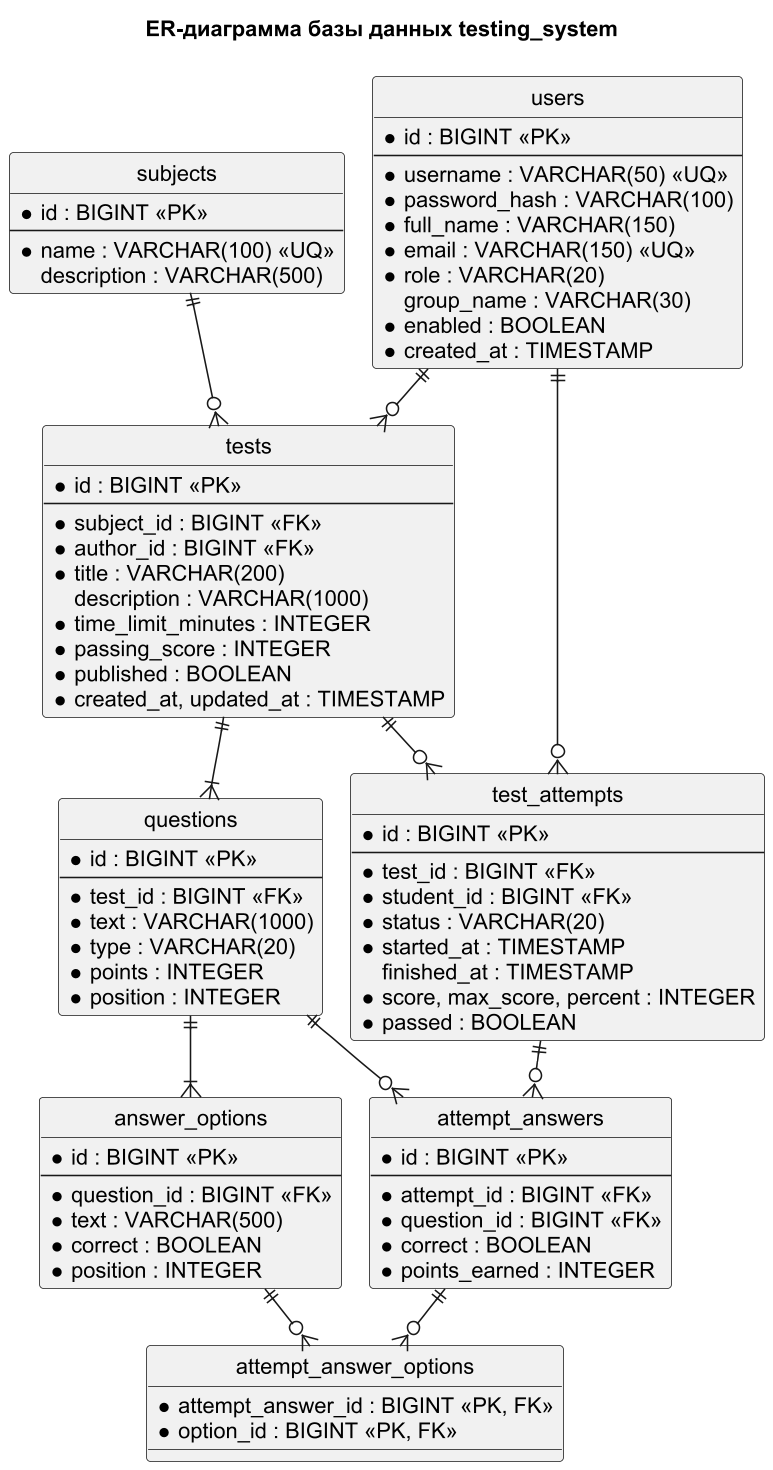
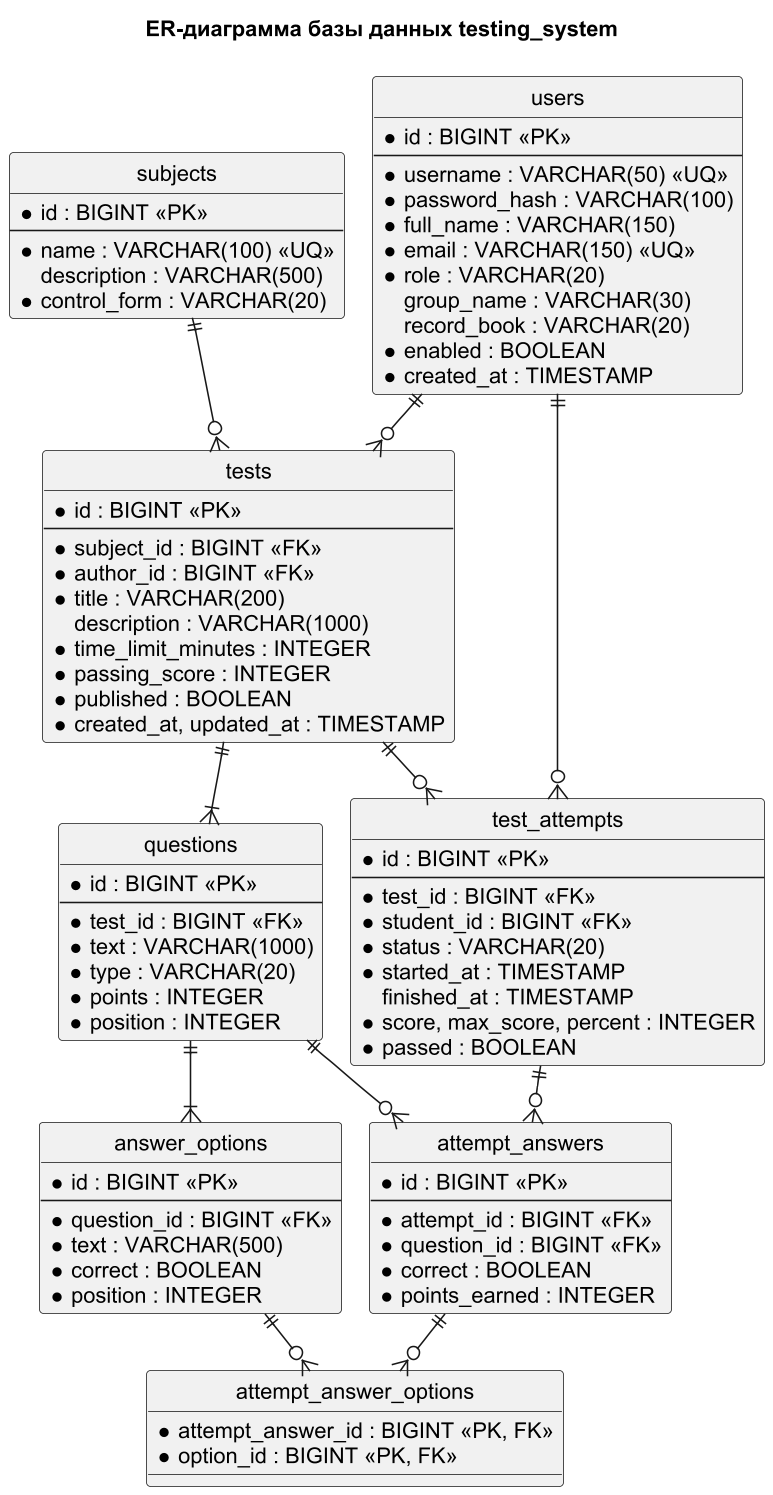
Форма контроля у дисциплины: экзамен, зачёт, дифф. зачёт
- поле control_form в subjects (миграция V3), выбор в форме и фильтр в справочнике
- ведомость берёт форму контроля из дисциплины; для зачёта — «зачтено / не зачтено» и итоги по зачёту
- обновлены ER-диаграмма и диаграмма классов, автотесты

diff --git a/src/main/resources/templates/reports/sheet.html b/src/main/resources/templates/reports/sheet.html
@@ -65,7 +65,7 @@
                             <div class="col-4"><label class="form-label small" for="grade3">«3»</label>
                                 <input class="form-control" type="number" min="0" max="100" th:field="*{grade3}"></div>
                         </div>
-                        <div class="form-text">Ниже порога «3» — оценка «2».</div>
+                        <div class="form-text">Ниже порога «3» — оценка «2». Для зачёта: «зачтено» — от порога «3».</div>
                     </div>
                 </div>
             </div>
@@ -85,6 +85,7 @@
                                 <input class="form-control" th:field="*{semester}" maxlength="20"></div>
                             <div class="col-md-3"><label class="form-label small" for="controlForm">Форма контроля</label>
                                 <select class="form-select" th:field="*{controlForm}">
+                                    <option value="">Из дисциплины</option>
                                     <option value="экзамен">Экзамен</option>
                                     <option value="зачёт">Зачёт</option>
                                     <option value="дифференцированный зачёт">Дифф. зачёт</option>
@@ -102,7 +103,7 @@
                             <div class="col-md-6"><label class="form-label small" for="teacher">Преподаватель</label>
                                 <input class="form-control" th:field="*{teacher}" maxlength="150"></div>
                         </div>
-                        <div class="form-text">Дисциплина и преподаватель подставляются из выбранного теста; их можно изменить.</div>
+                        <div class="form-text">Дисциплина, преподаватель и форма контроля подставляются из выбранного теста; их можно изменить.</div>
                     </div>
                 </div>
 

diff --git a/src/main/resources/templates/subjects/list.html b/src/main/resources/templates/subjects/list.html
@@ -10,15 +10,21 @@
     </div>
     <form class="d-flex gap-2 mb-3" method="get" th:action="@{/subjects}">
         <input class="form-control" name="q" th:value="${q}" placeholder="Поиск по названию">
+        <select class="form-select w-auto" name="controlForm" aria-label="Форма контроля">
+            <option value="">Все формы контроля</option>
+            <option th:each="f : ${controlForms}" th:value="${f}" th:text="${f.title}" th:selected="${f == controlForm}"></option>
+        </select>
         <button class="btn btn-outline-primary" type="submit">Найти</button>
     </form>
     <div class="table-responsive card">
         <table class="table table-hover mb-0 align-middle">
-            <thead><tr><th>ID</th><th>Название</th><th>Описание</th><th></th></tr></thead>
+            <thead><tr><th>ID</th><th>Название</th><th>Форма контроля</th><th>Описание</th><th></th></tr></thead>
             <tbody>
             <tr th:each="s : ${subjects}">
                 <td th:text="${s.id}">1</td>
                 <td class="fw-semibold" th:text="${s.name}">название</td>
+                <td><span class="badge" th:text="${s.controlForm.title}"
+                          th:classappend="${s.controlForm.name() == 'EXAM'} ? 'text-bg-primary' : (${s.controlForm.name() == 'CREDIT'} ? 'text-bg-success' : 'text-bg-info')">форма</span></td>
                 <td class="text-muted" th:text="${s.description}">описание</td>
                 <td class="text-nowrap">
                     <a class="btn btn-sm btn-outline-secondary" th:href="@{/subjects/{id}/edit(id=${s.id})}">Изменить</a>
@@ -27,7 +33,7 @@
                     </form>
                 </td>
             </tr>
-            <tr th:if="${#lists.isEmpty(subjects)}"><td colspan="4" class="text-muted">Ничего не найдено</td></tr>
+            <tr th:if="${#lists.isEmpty(subjects)}"><td colspan="5" class="text-muted">Ничего не найдено</td></tr>
             </tbody>
         </table>
     </div>

diff --git a/src/main/resources/templates/subjects/form.html b/src/main/resources/templates/subjects/form.html
@@ -16,6 +16,14 @@
             <div class="invalid-feedback" th:errors="*{name}"></div>
         </div>
         <div class="mb-3">
+            <label class="form-label" for="controlForm">Форма контроля</label>
+            <select class="form-select" th:field="*{controlForm}" th:errorclass="is-invalid">
+                <option th:each="f : ${controlForms}" th:value="${f}" th:text="${f.title}"></option>
+            </select>
+            <div class="form-text">По форме контроля ведомость выбирает шкалу: «5/4/3/2» или «зачтено / не зачтено».</div>
+            <div class="invalid-feedback" th:errors="*{controlForm}"></div>
+        </div>
+        <div class="mb-3">
             <label class="form-label" for="description">Описание</label>
             <textarea class="form-control" rows="3" th:field="*{description}" th:errorclass="is-invalid" maxlength="500"></textarea>
             <div class="invalid-feedback" th:errors="*{description}"></div>

diff --git a/src/main/resources/templates/tests/list.html b/src/main/resources/templates/tests/list.html
@@ -45,7 +45,8 @@
             <div class="card h-100 test-card">
                 <div class="card-body d-flex flex-column">
                     <div class="d-flex justify-content-between mb-2">
-                        <span class="badge text-bg-light" th:text="${t.subject.name}">дисциплина</span>
+                        <span><span class="badge text-bg-light" th:text="${t.subject.name}">дисциплина</span>
+                            <span class="badge text-bg-secondary" th:text="${t.subject.controlForm.title}">форма</span></span>
                         <span class="badge" th:classappend="${t.published} ? 'text-bg-success' : 'text-bg-secondary'"
                               th:text="${t.published} ? 'Опубликован' : 'Черновик'" th:if="${me.staff}">статус</span>
                     </div>

diff --git a/src/main/resources/templates/tests/view.html b/src/main/resources/templates/tests/view.html
@@ -10,6 +10,7 @@
             <div class="d-flex flex-wrap justify-content-between gap-2">
                 <div>
                     <span class="badge text-bg-light mb-2" th:text="${test.subject.name}">дисциплина</span>
+                    <span class="badge text-bg-secondary mb-2" th:text="${test.subject.controlForm.title}">форма</span>
                     <span class="badge mb-2" th:if="${me.staff}"
                           th:classappend="${test.published} ? 'text-bg-success' : 'text-bg-secondary'"
                           th:text="${test.published} ? 'Опубликован' : 'Черновик'">статус</span>

diff --git a/src/main/resources/static/js/app.js b/src/main/resources/static/js/app.js
@@ -44,7 +44,7 @@ document.addEventListener('submit', function (e) {
     if (!form) return;
     var test = form.querySelector('select[name="testId"]');
     if (test) test.addEventListener('change', function () {
-        ['discipline', 'teacher'].forEach(function (n) {
+        ['discipline', 'teacher', 'controlForm'].forEach(function (n) {
             var el = form.querySelector('[name="' + n + '"]');
             if (el) el.value = '';
         });

diff --git a/src/main/java/ru/edu/testing/service/GradeSheetService.java b/src/main/java/ru/edu/testing/service/GradeSheetService.java
@@ -6,6 +6,7 @@ import org.apache.poi.xssf.usermodel.XSSFWorkbook;
 import org.springframework.data.domain.Sort;
 import org.springframework.stereotype.Service;
 import org.springframework.transaction.annotation.Transactional;
+import ru.edu.testing.domain.ControlForm;
 import ru.edu.testing.domain.Role;
 import ru.edu.testing.domain.Test;
 import ru.edu.testing.domain.TestAttempt;
@@ -39,6 +40,8 @@ public class GradeSheetService {
 
     private static final DateTimeFormatter DATE = DateTimeFormatter.ofPattern("dd.MM.yyyy");
     private static final List<String> TOTAL_KEYS = List.of("5", "4", "3", "2", "н/я");
+    private static final List<String> PASS_FAIL_KEYS = List.of("зачтено", "не зачтено", "н/я");
+    private static final String PASS_FAIL = ControlForm.CREDIT.getTitle();
 
     private final TestRepository testRepository;
     private final TestAttemptRepository attemptRepository;
@@ -75,6 +78,9 @@ public class GradeSheetService {
                 if (isBlank(form.getTeacher())) {
                     form.setTeacher(t.getAuthor().getFullName());
                 }
+                if (isBlank(form.getControlForm())) {
+                    form.setControlForm(t.getSubject().getControlForm().getTitle());
+                }
             });
         }
     }
@@ -109,13 +115,28 @@ public class GradeSheetService {
         }
         byStudent.values().forEach(a -> students.putIfAbsent(a.getStudent().getId(), a.getStudent()));
 
+        // Зачёт оценивается как «зачтено / не зачтено» (порог — нижняя граница «3»), остальные формы — по пятибалльной шкале
+        boolean passFail = PASS_FAIL.equalsIgnoreCase(form.getControlForm() == null ? "" : form.getControlForm().trim());
         List<Row> rows = new ArrayList<>();
         for (User u : students.values()) {
             TestAttempt a = byStudent.get(u.getId());
             Integer grade = a == null ? null : grade(a.getPercent(), form);
+            String mark;
+            String word;
+            if (a == null) {
+                mark = "н/я";
+                word = gradeWord(null);
+            } else if (passFail) {
+                boolean ok = a.getPercent() >= form.getGrade3();
+                mark = ok ? "зач." : "незач.";
+                word = ok ? "зачтено" : "не зачтено";
+            } else {
+                mark = String.valueOf(grade);
+                word = gradeWord(grade);
+            }
             rows.add(new Row(0, u.getFullName(), u.getGroupName(), u.getRecordBook(),
                     a == null ? null : a.getScore(), a == null ? null : a.getMaxScore(),
-                    a == null ? null : a.getPercent(), grade, gradeWord(grade), a == null ? null : a.getFinishedAt()));
+                    a == null ? null : a.getPercent(), grade, mark, word, a == null ? null : a.getFinishedAt()));
         }
         Comparator<Row> byName = Comparator.comparing(Row::fullName, String.CASE_INSENSITIVE_ORDER);
         rows.sort(switch (form.getSort()) {
@@ -127,16 +148,17 @@ public class GradeSheetService {
         for (int i = 0; i < rows.size(); i++) {
             Row r = rows.get(i);
             numbered.add(new Row(i + 1, r.fullName(), r.group(), r.recordBook(), r.score(), r.maxScore(), r.percent(),
-                    r.grade(), r.gradeWord(), r.finishedAt()));
+                    r.grade(), r.mark(), r.gradeWord(), r.finishedAt()));
         }
 
         Map<String, Long> totals = new LinkedHashMap<>();
-        TOTAL_KEYS.forEach(k -> totals.put(k, 0L));
-        numbered.forEach(r -> totals.merge(r.absent() ? "н/я" : String.valueOf(r.grade()), 1L, Long::sum));
+        (passFail ? PASS_FAIL_KEYS : TOTAL_KEYS).forEach(k -> totals.put(k, 0L));
+        numbered.forEach(r -> totals.merge(r.absent() ? "н/я" : passFail ? r.gradeWord() : String.valueOf(r.grade()),
+                1L, Long::sum));
 
         List<SheetColumn> columns = form.getColumns() == null || form.getColumns().isEmpty()
                 ? List.of(SheetColumn.NUM, SheetColumn.NAME) : form.getColumns();
-        return new GradeSheet(form, test.getTitle(), columns, numbered, totals);
+        return new GradeSheet(form, test.getTitle(), passFail, columns, numbered, totals);
     }
 
     /** Перевод процента в пятибалльную шкалу по заданным порогам. */
@@ -171,7 +193,7 @@ public class GradeSheetService {
             case BOOK -> nz(r.recordBook());
             case SCORE -> r.absent() ? "" : r.score() + " / " + r.maxScore();
             case PERCENT -> r.absent() ? "" : String.valueOf(r.percent());
-            case GRADE -> r.absent() ? "н/я" : String.valueOf(r.grade());
+            case GRADE -> r.mark();
             case GRADE_WORD -> r.gradeWord();
             case DATE -> r.finishedAt() == null ? "" : r.finishedAt().toLocalDate().format(DATE);
             case SIGN -> "";
@@ -197,6 +219,10 @@ public class GradeSheetService {
     }
 
     public static String totalsLine(GradeSheet s) {
+        if (s.passFail()) {
+            return "Итого: зачтено = " + s.count("зачтено") + ", не зачтено = " + s.count("не зачтено")
+                    + ", не явились = " + s.count("н/я") + ", всего = " + s.rows().size();
+        }
         return "Итого: 5 (отл.) = " + s.count("5") + ", 4 (хор.) = " + s.count("4") + ", 3 (удовл.) = " + s.count("3")
                 + ", 2 (неуд.) = " + s.count("2") + ", не явились = " + s.count("н/я") + ", всего = " + s.rows().size();
     }
@@ -277,7 +303,7 @@ public class GradeSheetService {
                     SheetColumn col = sheet.columns().get(c);
                     String v = cell(row, col);
                     boolean numeric = (col == SheetColumn.NUM || col == SheetColumn.PERCENT
-                            || (col == SheetColumn.GRADE && !row.absent())) && !v.isEmpty();
+                            || (col == SheetColumn.GRADE && v.matches("\\d+"))) && !v.isEmpty();
                     if (numeric) {
                         xr.setNumber(c, Double.parseDouble(v), center);
                     } else {

diff --git a/src/test/java/ru/edu/testing/SystemScenariosTest.java b/src/test/java/ru/edu/testing/SystemScenariosTest.java
@@ -139,9 +139,10 @@ class SystemScenariosTest {
     @DisplayName("9. Добавление дисциплины преподавателем — запись добавлена")
     void addSubject() throws Exception {
         String name = "Дисциплина " + SEQ.incrementAndGet();
-        api(post("/api/subjects"), teacher, Map.of("name", name, "description", "Описание"))
+        api(post("/api/subjects"), teacher, Map.of("name", name, "description", "Описание", "controlForm", "CREDIT"))
                 .andExpect(status().isCreated())
-                .andExpect(jsonPath("$.name").value(name));
+                .andExpect(jsonPath("$.name").value(name))
+                .andExpect(jsonPath("$.controlForm").value("CREDIT"));
     }
 
     @Test
@@ -294,7 +295,7 @@ class SystemScenariosTest {
     }
 
     @Test
-    @DisplayName("22. Ведомость: CSV и Excel по группе, оценки по шкале, отметка «н/я»; преподавателю — 403")
+    @DisplayName("22. Ведомость: CSV и Excel по группе, оценки по шкале, зачёт, отметка «н/я»; преподавателю — 403")
     void gradeSheetExport() throws Exception {
         String group = "ВД-" + SEQ.incrementAndGet();
         String passed = "sheetA" + SEQ.incrementAndGet();
@@ -319,6 +320,16 @@ class SystemScenariosTest {
         org.junit.jupiter.api.Assertions.assertTrue(csv.contains("Студент " + passed + ";Z-" + passed + ";5;отлично"), csv);
         org.junit.jupiter.api.Assertions.assertTrue(csv.contains("Студент " + absent + ";Z-" + absent + ";н/я;не явился"), csv);
         org.junit.jupiter.api.Assertions.assertTrue(csv.contains("5 (отл.) = 1") && csv.contains("не явились = 1"), csv);
+        org.junit.jupiter.api.Assertions.assertTrue(csv.contains("Форма контроля: экзамен"), "форма контроля из дисциплины: " + csv);
+
+        // Зачёт: вместо оценки — «зачтено / не зачтено»
+        String credit = mvc.perform(get("/reports/sheet/export.csv").with(user(ADMIN).roles("ADMIN"))
+                        .param("testId", String.valueOf(testId)).param("group", group).param("controlForm", "зачёт")
+                        .param("columns", "NAME", "GRADE", "GRADE_WORD"))
+                .andExpect(status().isOk())
+                .andReturn().getResponse().getContentAsString(java.nio.charset.StandardCharsets.UTF_8);
+        org.junit.jupiter.api.Assertions.assertTrue(credit.contains("Студент " + passed + ";зач.;зачтено"), credit);
+        org.junit.jupiter.api.Assertions.assertTrue(credit.contains("зачтено = 1, не зачтено = 0, не явились = 1"), credit);
 
         byte[] xlsx = mvc.perform(get("/reports/sheet/export.xlsx").with(user(ADMIN).roles("ADMIN"))
                         .param("testId", String.valueOf(testId)).param("group", group))

diff --git a/src/main/java/ru/edu/testing/web/SubjectController.java b/src/main/java/ru/edu/testing/web/SubjectController.java
@@ -6,6 +6,7 @@ import org.springframework.ui.Model;
 import org.springframework.validation.BindingResult;
 import org.springframework.web.bind.annotation.*;
 import org.springframework.web.servlet.mvc.support.RedirectAttributes;
+import ru.edu.testing.domain.ControlForm;
 import ru.edu.testing.domain.Subject;
 import ru.edu.testing.dto.SubjectForm;
 import ru.edu.testing.exception.BusinessException;
@@ -23,9 +24,12 @@ public class SubjectController {
     }
 
     @GetMapping
-    public String list(@RequestParam(required = false) String q, Model model) {
-        model.addAttribute("subjects", subjectService.findAll(q));
+    public String list(@RequestParam(required = false) String q,
+                       @RequestParam(required = false) ControlForm controlForm, Model model) {
+        model.addAttribute("subjects", subjectService.findAll(q, controlForm));
         model.addAttribute("q", q);
+        model.addAttribute("controlForm", controlForm);
+        model.addAttribute("controlForms", ControlForm.values());
         return "subjects/list";
     }
 
@@ -33,6 +37,7 @@ public class SubjectController {
     public String createForm(Model model) {
         model.addAttribute("form", new SubjectForm());
         model.addAttribute("subjectId", null);
+        model.addAttribute("controlForms", ControlForm.values());
         return "subjects/form";
     }
 
@@ -40,6 +45,7 @@ public class SubjectController {
     public String create(@Valid @ModelAttribute("form") SubjectForm form, BindingResult result, Model model,
                          RedirectAttributes redirect) {
         model.addAttribute("subjectId", null);
+        model.addAttribute("controlForms", ControlForm.values());
         if (result.hasErrors()) {
             return "subjects/form";
         }
@@ -59,8 +65,10 @@ public class SubjectController {
         SubjectForm form = new SubjectForm();
         form.setName(subject.getName());
         form.setDescription(subject.getDescription());
+        form.setControlForm(subject.getControlForm());
         model.addAttribute("form", form);
         model.addAttribute("subjectId", id);
+        model.addAttribute("controlForms", ControlForm.values());
         return "subjects/form";
     }
 
@@ -68,6 +76,7 @@ public class SubjectController {
     public String update(@PathVariable Long id, @Valid @ModelAttribute("form") SubjectForm form,
                          BindingResult result, Model model, RedirectAttributes redirect) {
         model.addAttribute("subjectId", id);
+        model.addAttribute("controlForms", ControlForm.values());
         if (result.hasErrors()) {
             return "subjects/form";
         }

diff --git a/src/main/java/ru/edu/testing/config/DataInitializer.java b/src/main/java/ru/edu/testing/config/DataInitializer.java
@@ -82,10 +82,10 @@ public class DataInitializer implements ApplicationRunner {
                 userService.create(form("volkov", password, "Волков Никита Андреевич", "volkov@example.com", "ПИ-22"), Role.STUDENT));
         AppUserDetails author = new AppUserDetails(teacher, false);
 
-        Subject db = subject("Базы данных", "Реляционная модель, SQL, проектирование БД");
-        Subject java = subject("Программирование на Java", "Синтаксис, ООП, коллекции, исключения");
-        Subject net = subject("Компьютерные сети", "Модель OSI, стек TCP/IP, адресация");
-        Subject sec = subject("Информационная безопасность", "Угрозы, криптография, защита веб-приложений");
+        Subject db = subject("Базы данных", "Реляционная модель, SQL, проектирование БД", ControlForm.EXAM);
+        Subject java = subject("Программирование на Java", "Синтаксис, ООП, коллекции, исключения", ControlForm.EXAM);
+        Subject net = subject("Компьютерные сети", "Модель OSI, стек TCP/IP, адресация", ControlForm.CREDIT);
+        Subject sec = subject("Информационная безопасность", "Угрозы, криптография, защита веб-приложений", ControlForm.GRADED_CREDIT);
 
         List<Test> published = new ArrayList<>();
         published.add(test(author, db, "SQL: основы запросов", "Проверка знания базовых конструкций SQL", 15, 60,
@@ -154,10 +154,11 @@ public class DataInitializer implements ApplicationRunner {
         }
     }
 
-    private Subject subject(String name, String description) {
+    private Subject subject(String name, String description, ControlForm controlForm) {
         SubjectForm form = new SubjectForm();
         form.setName(name);
         form.setDescription(description);
+        form.setControlForm(controlForm);
         return subjectService.create(form);
     }
 

diff --git a/src/main/java/ru/edu/testing/service/SubjectService.java b/src/main/java/ru/edu/testing/service/SubjectService.java
@@ -3,6 +3,7 @@ package ru.edu.testing.service;
 import org.springframework.http.HttpStatus;
 import org.springframework.stereotype.Service;
 import org.springframework.transaction.annotation.Transactional;
+import ru.edu.testing.domain.ControlForm;
 import ru.edu.testing.domain.Subject;
 import ru.edu.testing.dto.SubjectForm;
 import ru.edu.testing.exception.BusinessException;
@@ -25,10 +26,15 @@ public class SubjectService {
     }
 
     public List<Subject> findAll(String query) {
-        if (query == null || query.isBlank()) {
-            return subjectRepository.findAllByOrderByNameAsc();
-        }
-        return subjectRepository.findByNameContainingIgnoreCaseOrderByNameAsc(query.trim());
+        return findAll(query, null);
+    }
+
+    /** Поиск по названию и фильтр по форме контроля. */
+    public List<Subject> findAll(String query, ControlForm controlForm) {
+        List<Subject> list = query == null || query.isBlank()
+                ? subjectRepository.findAllByOrderByNameAsc()
+                : subjectRepository.findByNameContainingIgnoreCaseOrderByNameAsc(query.trim());
+        return controlForm == null ? list : list.stream().filter(s -> s.getControlForm() == controlForm).toList();
     }
 
     public Subject get(Long id) {
@@ -69,5 +75,6 @@ public class SubjectService {
     private static void apply(Subject subject, SubjectForm form) {
         subject.setName(form.getName().trim());
         subject.setDescription(form.getDescription() == null ? null : form.getDescription().trim());
+        subject.setControlForm(form.getControlForm());
     }
 }

diff --git a/src/main/java/ru/edu/testing/dto/GradeSheet.java b/src/main/java/ru/edu/testing/dto/GradeSheet.java
@@ -5,12 +5,15 @@ import java.util.List;
 import java.util.Map;
 
 /** Готовая ведомость: строки, итоги и выбранные колонки. */
-public record GradeSheet(SheetForm form, String testTitle, List<SheetColumn> columns, List<Row> rows,
+public record GradeSheet(SheetForm form, String testTitle, boolean passFail, List<SheetColumn> columns, List<Row> rows,
                          Map<String, Long> totals) {
 
-    /** Строка ведомости. grade == null — студент не проходил тест. */
+    /**
+     * Строка ведомости. grade == null — студент не проходил тест.
+     * mark — отметка в колонке «Оценка»: «5», «4», … или «зач.» / «незач.» для зачёта.
+     */
     public record Row(int num, String fullName, String group, String recordBook, Integer score, Integer maxScore,
-                      Integer percent, Integer grade, String gradeWord, LocalDateTime finishedAt) {
+                      Integer percent, Integer grade, String mark, String gradeWord, LocalDateTime finishedAt) {
 
         public boolean absent() {
             return grade == null;
